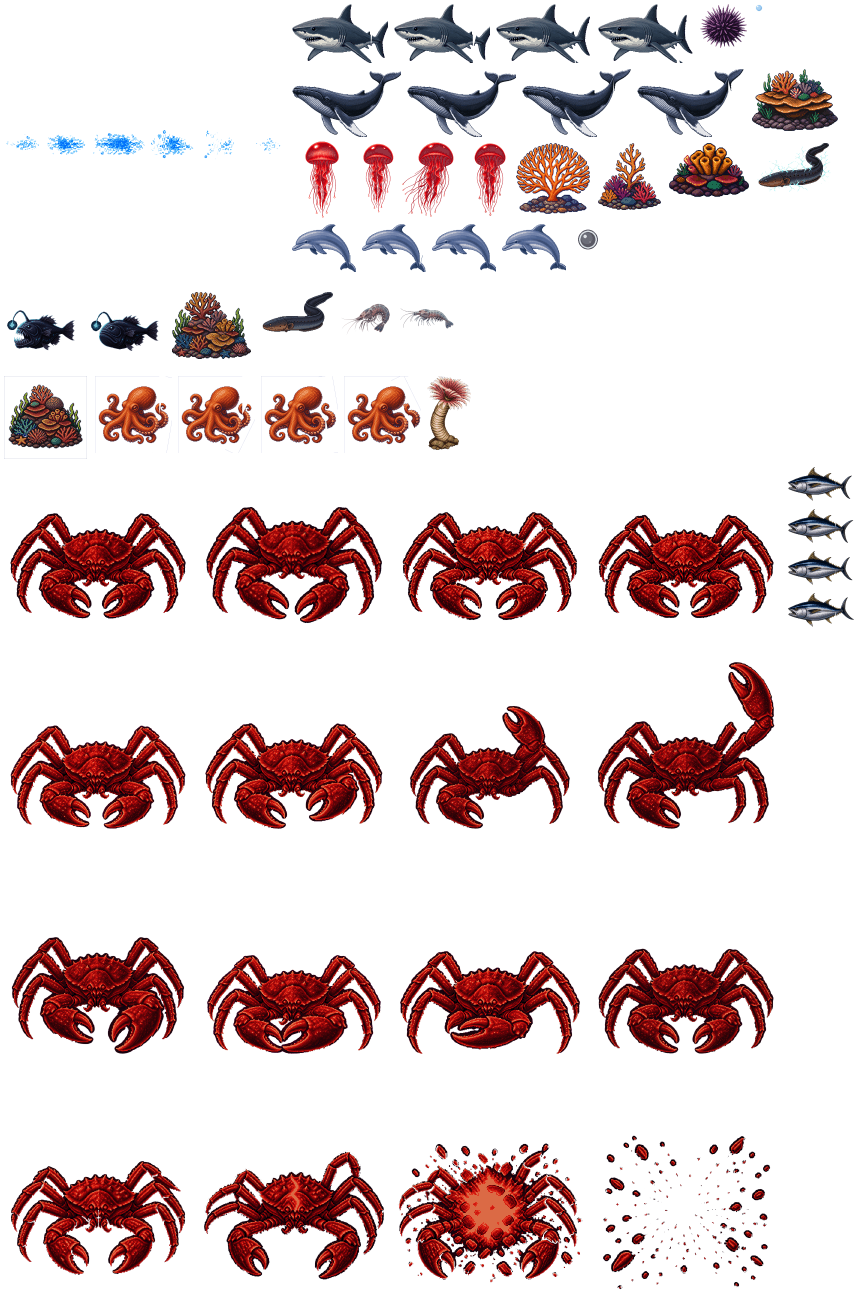
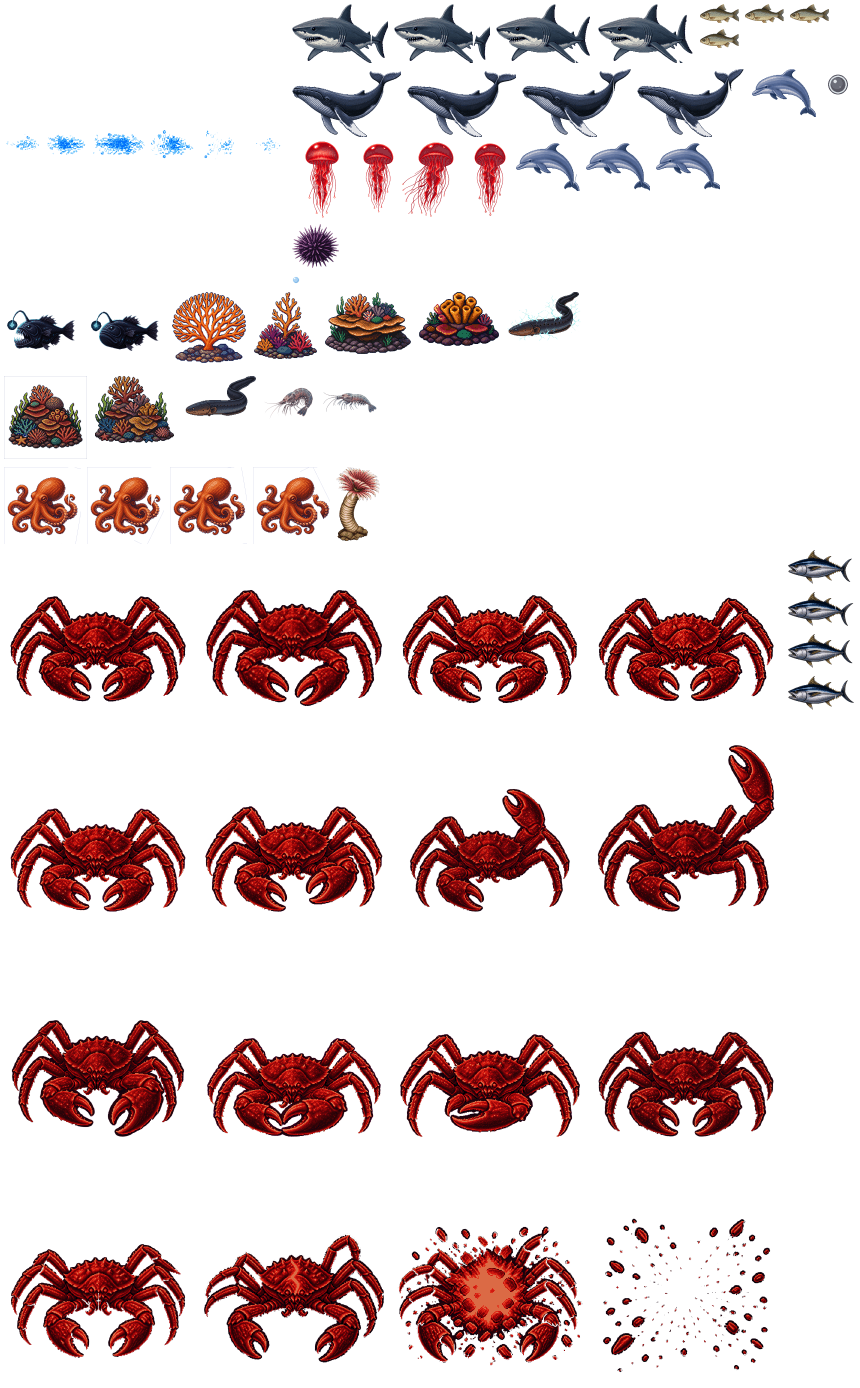
The fish, which the player sees more than anything else, is a picture now
It was the last of the common creatures still drawn by code -- an ellipse and a triangle tail in `drawFish` -- and
it is placed 129 times across the six levels, so it is the sprite this game is mostly made of. A finished drawing
of a fish facing left, composed into a four-frame tail cycle with `compose-swim-tail.py` and imported through
`import-sheet.py`. Body identical in all four frames; 6-10 pixels differ between any two of them, which is the
fluke and nothing else.

56px drawn, grid 40, `scale 1.94`. That number is measured off the code version rather than chosen: its body was
3r wide with a tail out to 2.2r, so about 53px end to end. The fish is the size every other creature is read
against -- a bigger or smaller fish makes the whole cast unreadable -- so it deliberately lands on the same size.

ONE THING ONLY A PICTURE WOULD HAVE LOST, and it is not decoration. A fish under the decoy's influence neither
chases the player (`stepFish`) nor can hurt them (`contactFish`), so "which of these fish are lured" IS the state
of the threat. The drawn body said it by REPLACING the eye with a blank white dot; the picture arrives with an eye
already painted into it, so the dot is drawn back over the sprite, positioned off `facing` -- the same mirror the
sprite itself was given, so it lands on the head of a fish that turned around rather than on its tail. The first
attempt was nearly twice the size and read as a headlight; it is now the drawn version's own proportions.
[…]

diff --git a/src/hazards.ts b/src/hazards.ts
@@ -3973,6 +3973,26 @@ export function paintHazards(
             width: Math.max(1, r * mech.hitFeedback.heavyOutlineWidthRatio * (0.6 + outline)),
           });
         }
+        /**
+         * THE BAITED STARE, which a picture would otherwise quietly delete.
+         *
+         * A baited fish is one that has stopped chasing AND cannot hurt the player (see `stepFish` and
+         * `contactFish`), so "which of these fish are currently lured" is the state of the threat, not a flourish.
+         * The drawn body said it by REPLACING the eye with a blank white dot; a picture arrives with its own eye
+         * already painted in, so the mark has to be laid back over the top or the cue disappears along with the
+         * drawing.
+         *
+         * It follows `facing` rather than re-deriving a direction, because `facing` is the mirror the sprite itself
+         * was given -- a dot placed by a second opinion would sit on the tail of every fish that turned around. The
+         * offsets are fractions of the picture's own width, so a kind drawn larger keeps the mark on its head.
+         */
+        if (h.baitedUntil > elapsed) {
+          // Sizes are fractions of the PICTURE, and they are the drawn version's own proportions: it used `r * 0.16`
+          // for the dot against a `r * 0.2` eye, and `2r × scale` is the picture's width, so that is `size * 0.04`
+          // here. The first attempt was nearly twice this and read as a headlight rather than as a dazed eye.
+          const head = x - facing * 0.35 * size;
+          g.circle(head, y, Math.max(1, size * 0.045)).fill({ color: 0xffffff, alpha: 0.92 });
+        }
         if (art.lure) paintLure(g, x, y, r, art.lure, elapsed);
         continue;
       }

diff --git a/README.md b/README.md
@@ -1080,6 +1080,24 @@ pnpm atlas                               # 重新打包图集
 所以在一排里每个角度都不同（同一帧生成的两只不会像双胞胎）。**0.35 就是原来代码画那版的转速**
 （`drawUrchin` 里的 `h.phase * 0.35`），所以换成图片之后手感不变；0 = 完全不转。
 
+### 小鱼换成原图 + 游动循环（`fish`）
+
+**游戏里最常见的生物**（六关一共刷 129 处）原来一直是 `drawFish` 用代码画的椭圆加三角尾，现在换成原图。
+一条朝左的成品图 → `compose-swim-tail.py` 转尾巴 → 四帧，`hazardArt.fish` 指 `fish-swim`。
+四帧身体逐像素相同，帧间只有 6–10 个像素不同（尾巴那一小块）。
+
+**画出来 56px（网格 40），`scale 1.94`**。这个数是按旧版量的：代码画那版身体 3r 宽、尾巴伸到 2.2r，
+全长约 53px。**鱼是全场的基准尺寸**——它变大或变小，别的生物的"大小"就读不出来了，所以这里刻意贴着旧版走。
+
+**有一处只有贴图会丢的东西，单独补上了**：被诱饵控住的鱼会画一个呆滞的白眼。
+那**不只是装饰**——被引诱的鱼既不追你（`stepFish`）、也不造成接触伤害（`contactFish`），
+所以"哪些鱼现在被控住"就是**威胁状态本身**。代码画的那版是**把眼睛换成白点**，而图片自带眼睛，
+所以那个白点现在是在精灵之后**重画上去的**，位置跟着 `facing`（精灵用的那个镜像），大小按图片宽度取比例。
+第一版做得差不多大一倍，看着像车头灯而不是呆滞的眼睛——现在按旧版的比例（`r*0.16` 的点配 `r*0.2` 的眼）。
+
+**尾巴的摆幅调大没有用**：试过 24 度，帧间差异还是 4–10 个像素——41 像素宽的网格上，
+尾巴的运动已经量化到极限，再多转也落不到新的像素块上。所以留在默认的 15 度（和金枪鱼同一个数）。
+
 ### 敌人贴图（`hazardArt`）+ 灯笼鱼的发光触角
 
 按种类给图，**没给图的种类照旧用代码画**——一次换一种，不用一次全换：
